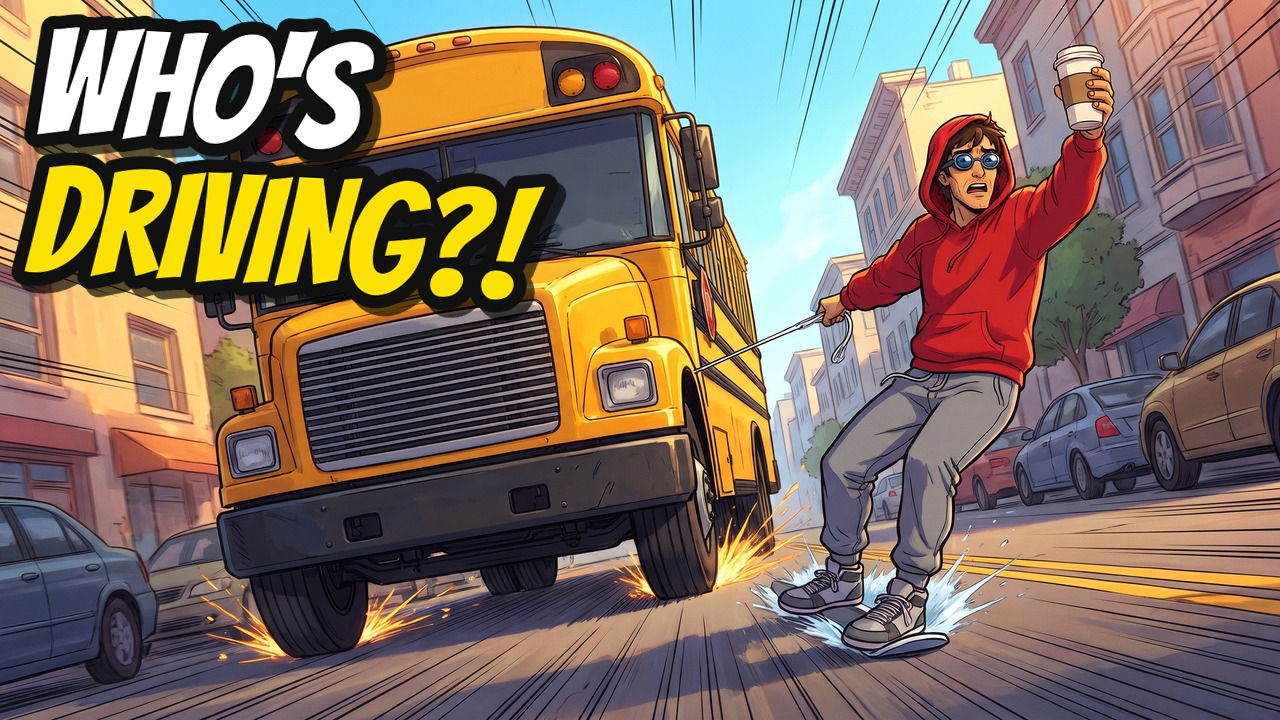
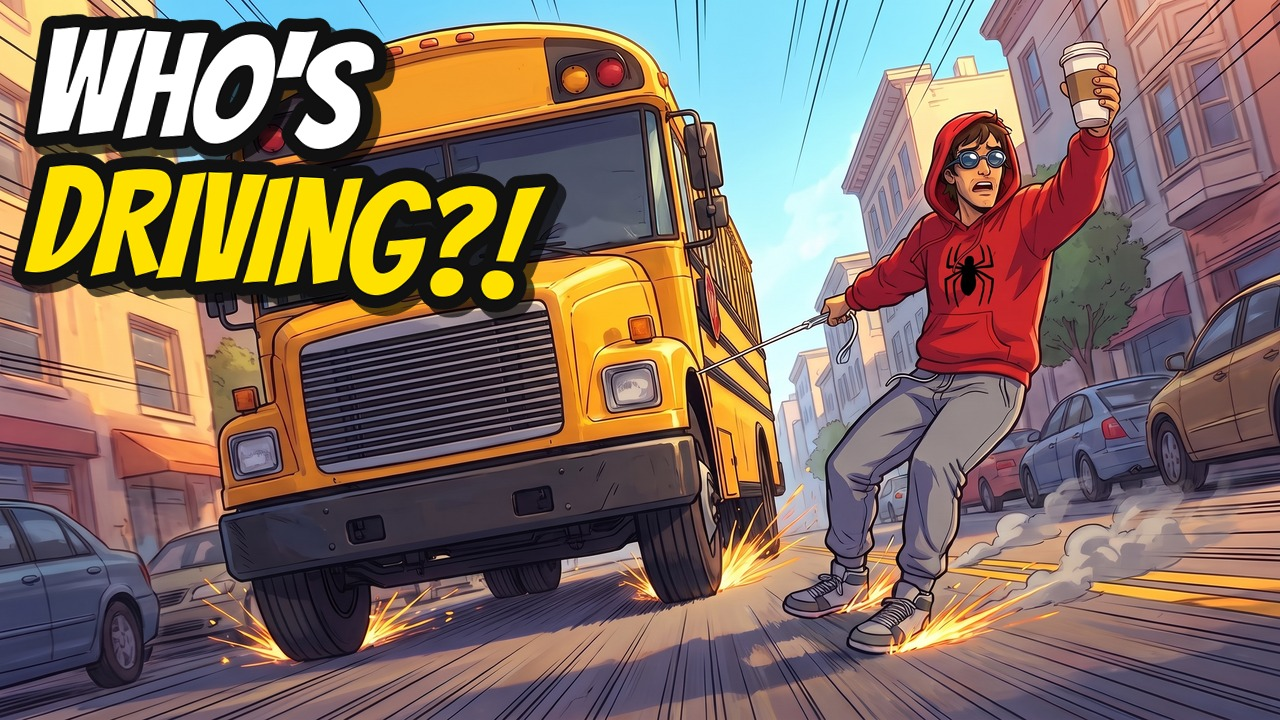
Thumbnail B: no water skis, spider on the hoodie, interview captions
Claude-Session: https://claude.ai/code/session_01TNc2K4iQhF6FRvCx2VQdik

diff --git a/channel/ep01_spiderman_upload.md b/channel/ep01_spiderman_upload.md
@@ -101,5 +101,5 @@ Who should you wake up as after that? Wrong answers only.
 Готовые файлы: `channel/art/thumb_ep01_A.jpg` (главная), `thumb_ep01_B.jpg` и `thumb_ep01_C.jpg` для теста Test & Compare.
 
 - **A:** огромное перевёрнутое лицо героя в панике на жёлто-оранжевых лучах, Дэйв с кружкой в углу. Надпись `WOKE UP LIKE THIS`.
-- **B:** автобус без водителя, герой в красном худи едет за ним на паутине с кофе. Надпись `WHO'S DRIVING?!` (запасные: `HERO BY 10?`, `DON'T SPILL IT!`, файлы `thumb_ep01_B_*.jpg`).
+- **B:** автобус без водителя, герой в красном худи едет за ним на паутине с кофе. Кроссовки тормозят об асфальт с искрами, на худи самодельный паук. Надпись `WHO'S DRIVING?!` (запасные: `THIS ISN'T AN INTERVIEW`, `LATE FOR THE INTERVIEW?!`, файлы `thumb_ep01_B_*.jpg`).
 - **C:** Дэйв крупно пьёт кофе, за ним герой кричит на потолке. Надпись `NORMAL MORNING`.
